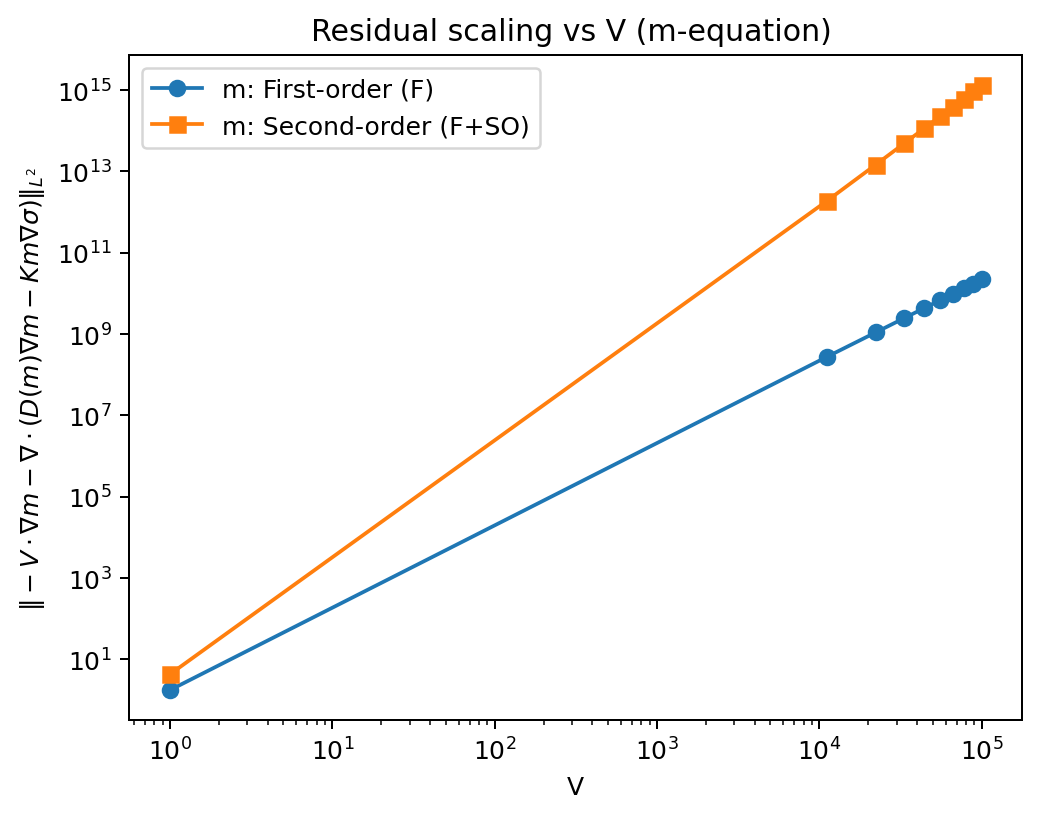
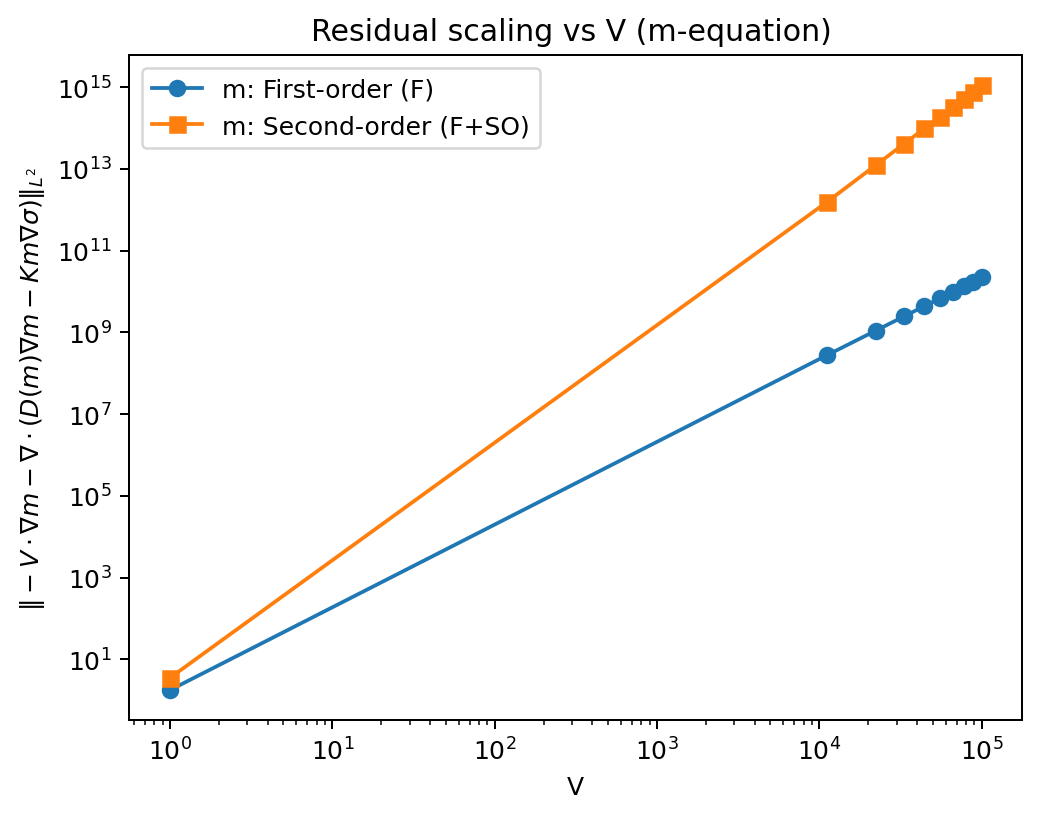
modified sigma_solver

diff --git a/second_order.py b/second_order.py
@@ -142,9 +142,8 @@ def _solve_sigma_bessel(n: int, kappa: float, f: np.ndarray, r: np.ndarray, R0: 
     Solve (L_n + kappa^2) σ = f on (0,R0) with σ'(R0)=0, regular at r=0.
 
     Green's representation for '+' sign (ordinary Bessels):
-        σ(r) = (π/2) [ ψ̂(r) ∫_0^r s J_n(κ s) f(s) ds + J_n(κ r) ∫_r^{R0} s ψ̂(κ s) f(s) ds ],
-    where ψ̂(r) = Y_n(κ r) + c J_n(κ r) and c = -Y_n'(κ R0)/J_n'(κ R0).
-    This avoids integrating Y_n near 0 and enforces σ'(R0)=0 by construction.
+
+    This constant A enforces σ'(R0)=0 by construction.
     """
     rr = np.asarray(r, dtype=float)
     fv = np.asarray(f, dtype=float)
@@ -164,19 +163,34 @@ def _solve_sigma_bessel(n: int, kappa: float, f: np.ndarray, r: np.ndarray, R0: 
     denom = Jnp(kr0)
     if np.isclose(denom, 0.0):
         raise ZeroDivisionError("Neumann resonance: J_n'(kappa*R0) ≈ 0; adjust kappa or R0.")
-    c = -Ynp(kr0) / denom
+    
 
-    phi = Jn(kr)                  # left-regular
-    psi = Yn(kr) + c * Jn(kr)     # right-Neumann
+    fracnum = (Y(n-1,kappa*R0)+Y(n+1, kappa*R0))* _cumtrapz_from_zero(rr*Jn(kr)*fv,rr)[-1]
+    fracden = J(n-1, kappa*R0) - J(n+1, kappa*R0)
+    frac = fracnum/ fracden
 
-    # prefix and suffix weighted integrals
-    I2 = _cumtrapz_from_zero(rr * phi * fv, rr)   # ∫_0^r s J_n(κ s) f(s) ds
-    B  = _cumtrapz_to_R0(rr * psi * fv, rr)       # ∫_r^{R0} s ψ̂(κ s) f(s) ds
 
-    sigma = (np.pi/2.0) * (psi * I2 + phi * B)
+    integral = _cumtrapz_from_zero(rr*Yn(kr)*fv,rr)[-1]
+    A = 1/2*np.pi*(frac + integral)
 
-    # σ(R0): since B(R0)=0, I2(R0)=∫_0^{R0} s J_n(κ s) f(s) ds
-    sR0 = float((np.pi/2.0) * (Yn(kr0) + c * Jn(kr0)) * I2[-1])
+
+    sigma = -np.pi/2*Jn(kr)*_cumtrapz_from_zero(rr*Yn(kr)*fv,rr) + np.pi/2*Yn(kr)*_cumtrapz_from_zero(rr*Jn(kr)*fv,rr)+A*Jn(kr)
+
+    sR0 = 1/2*np.pi*Yn(kappa*R0) * _cumtrapz_from_zero(rr*Jn(kr)*fv,rr)[-1] + Jn(kappa*R0)*(A - 1/2*np.pi*_cumtrapz_from_zero(rr*Yn(kr)*fv,rr)[-1])
+
+    # c = -Ynp(kr0) / denom
+
+    # phi = Jn(kr)                  # left-regular
+    # psi = Yn(kr) + c * Jn(kr)     # right-Neumann
+
+    # # prefix and suffix weighted integrals
+    # I2 = _cumtrapz_from_zero(rr * phi * fv, rr)   # ∫_0^r s J_n(κ s) f(s) ds
+    # B  = _cumtrapz_to_R0(rr * psi * fv, rr)       # ∫_r^{R0} s ψ̂(κ s) f(s) ds
+
+    # sigma = (np.pi/2.0) * (psi * I2 + phi * B)
+
+    # # σ(R0): since B(R0)=0, I2(R0)=∫_0^{R0} s J_n(κ s) f(s) ds
+    # sR0 = float((np.pi/2.0) * (Yn(kr0) + c * Jn(kr0)) * I2[-1])
 
     return sigma, sR0
 
